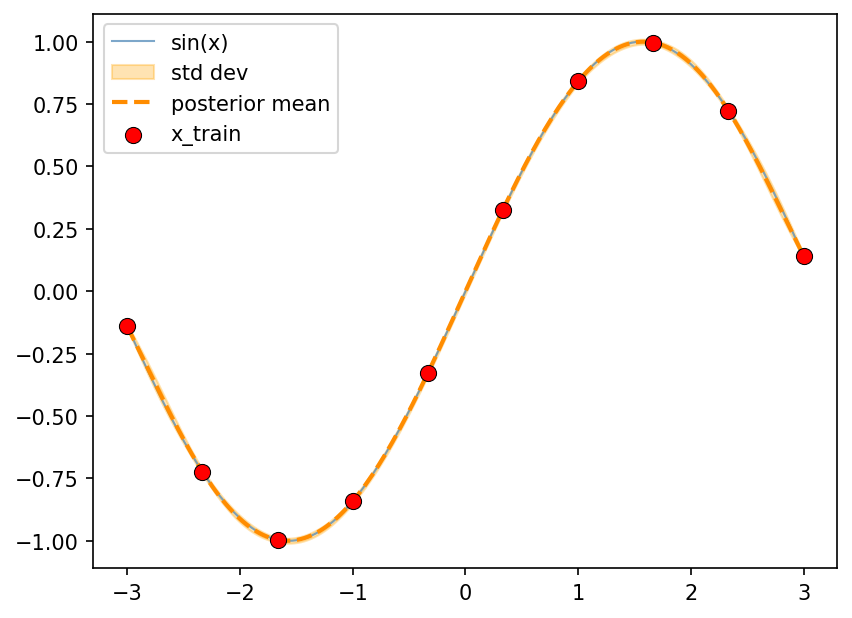
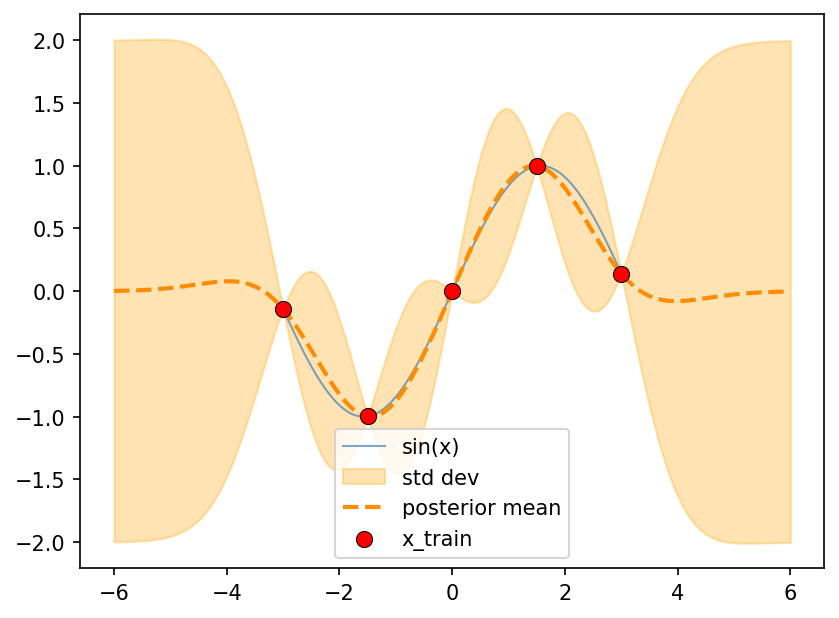
day 5

diff --git a/_includes/2026-06-15-week-1-day-5-gaussian-processes/uncertainty.py b/_includes/2026-06-15-week-1-day-5-gaussian-processes/uncertainty.py
@@ -8,20 +8,22 @@ import numpy as np
 import matplotlib.pyplot as plt
 
 np.random.seed(505)
-x_train = np.linspace(-3, 3, 10)
+x_train = np.linspace(-3, 3, 5)
 f_train = np.sin(x_train)
 
-x_star = np.linspace(-3, 3, 200)
+x_star = np.linspace(-6, 6, 200)
 
 k_train_train = generate_covariance_matrix_from_points(x_train, x_train, radial_basis_function_kernel, length_scale=1.0, variance=1.0)
 k_train_star = generate_covariance_matrix_from_points(x_train, x_star, radial_basis_function_kernel, length_scale=1.0, variance=1.0)
 k_star_star = generate_covariance_matrix_from_points(x_star, x_star, radial_basis_function_kernel, length_scale=1.0, variance=1.0)
 
-noise = 1e-4
+noise = 1e-6
 k_train_train_stable = k_train_train + noise * np.eye(len(x_train))
 
-posterior_mean = k_train_star.T @ np.linalg.inv(k_train_train_stable) @ f_train
-posterior_var = k_star_star - k_train_star.T @ np.linalg.inv(k_train_train_stable) @ k_train_star
+k_train_train_inv = np.linalg.inv(k_train_train_stable)
+
+posterior_mean = k_train_star.T @ k_train_train_inv @ f_train
+posterior_var = k_star_star - k_train_star.T @ k_train_train_inv @ k_train_star
 
 print("posterior_mean[:5]:", posterior_mean[:5])
 
@@ -33,7 +35,7 @@ assets = os.path.join(os.path.dirname(__file__), "../../assets/2026_06_15_gaussi
 
 def draw_plot():
     plt.plot(sin_points, np.sin(sin_points), label="sin(x)", color="steelblue", linestyle="solid", linewidth=1, alpha=0.7)
-    plt.fill_between(x_star, posterior_mean - std_dev, posterior_mean + std_dev, label="std dev", color="orange", alpha=0.3)
+    plt.fill_between(x_star, posterior_mean - 2 * std_dev, posterior_mean + 2 * std_dev, label="std dev", color="orange", alpha=0.3)
     plt.plot(x_star, posterior_mean, label="posterior mean", color="darkorange", linestyle="dashed", linewidth=2)
     plt.scatter(x_train, f_train, label="x_train", color="red", edgecolors="black", linewidths=0.5, s=60, zorder=5)
     plt.legend()
@@ -41,9 +43,3 @@ def draw_plot():
 plt.figure()
 draw_plot()
 plt.savefig(os.path.join(assets, "posterior.png"), dpi=150, bbox_inches="tight")
-
-plt.figure()
-draw_plot()
-plt.xlim(0, 0.1)
-plt.savefig(os.path.join(assets, "posterior_zoom.png"), dpi=150, bbox_inches="tight")
-

diff --git a/_posts/2026-06-15-WEEK-1-DAY-5-GAUSSIAN-PROCESSES.md b/_posts/2026-06-15-WEEK-1-DAY-5-GAUSSIAN-PROCESSES.md
@@ -33,4 +33,6 @@ If we are fitting noisy observations we do not want to directly pass our functio
 
 ![Posterior mean and uncertainty](/assets/2026_06_15_gaussian_processes/posterior.png)
 
-![Posterior zoom (x: 0 to 0.1)](/assets/2026_06_15_gaussian_processes/posterior_zoom.png)
+The plot show that the uncertainty around our real data points is small and once we go outside the range of our training data the uncertainty gets huge.  We also see that once we are outside the training data, the posterior mean basically stops following the sin curve.
+
+As we get further away from the training data, we see that the mean returns to 0 which is consistent with the training points in that domain. We also see the uncertainty return to the baseline. As the contribution to the reduction in uncertainty from the training data gets smaller, further away from the training data, we see the maximum uncertainty in our model.